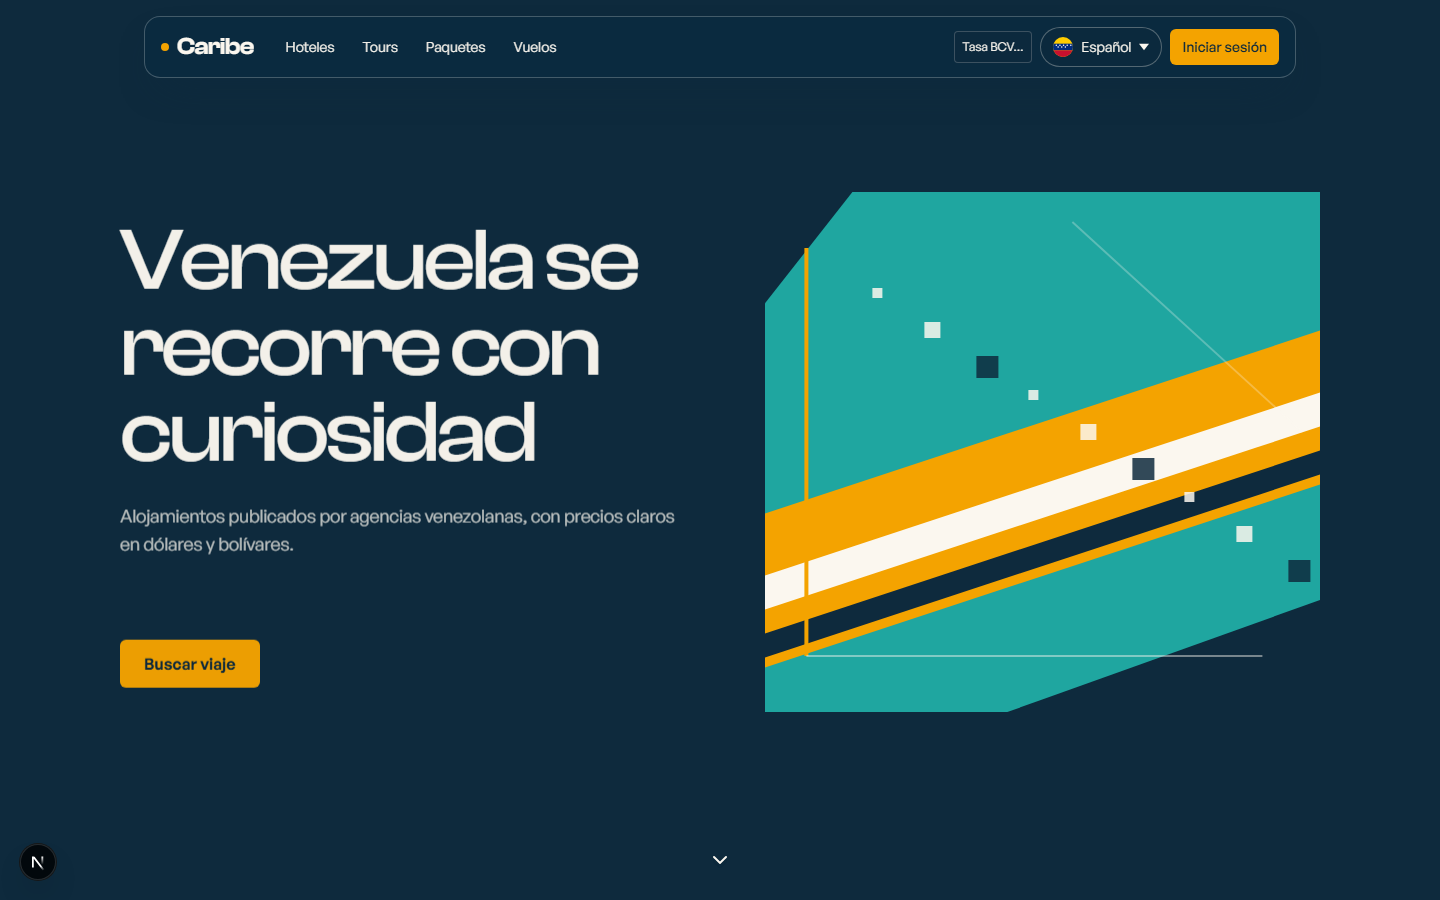
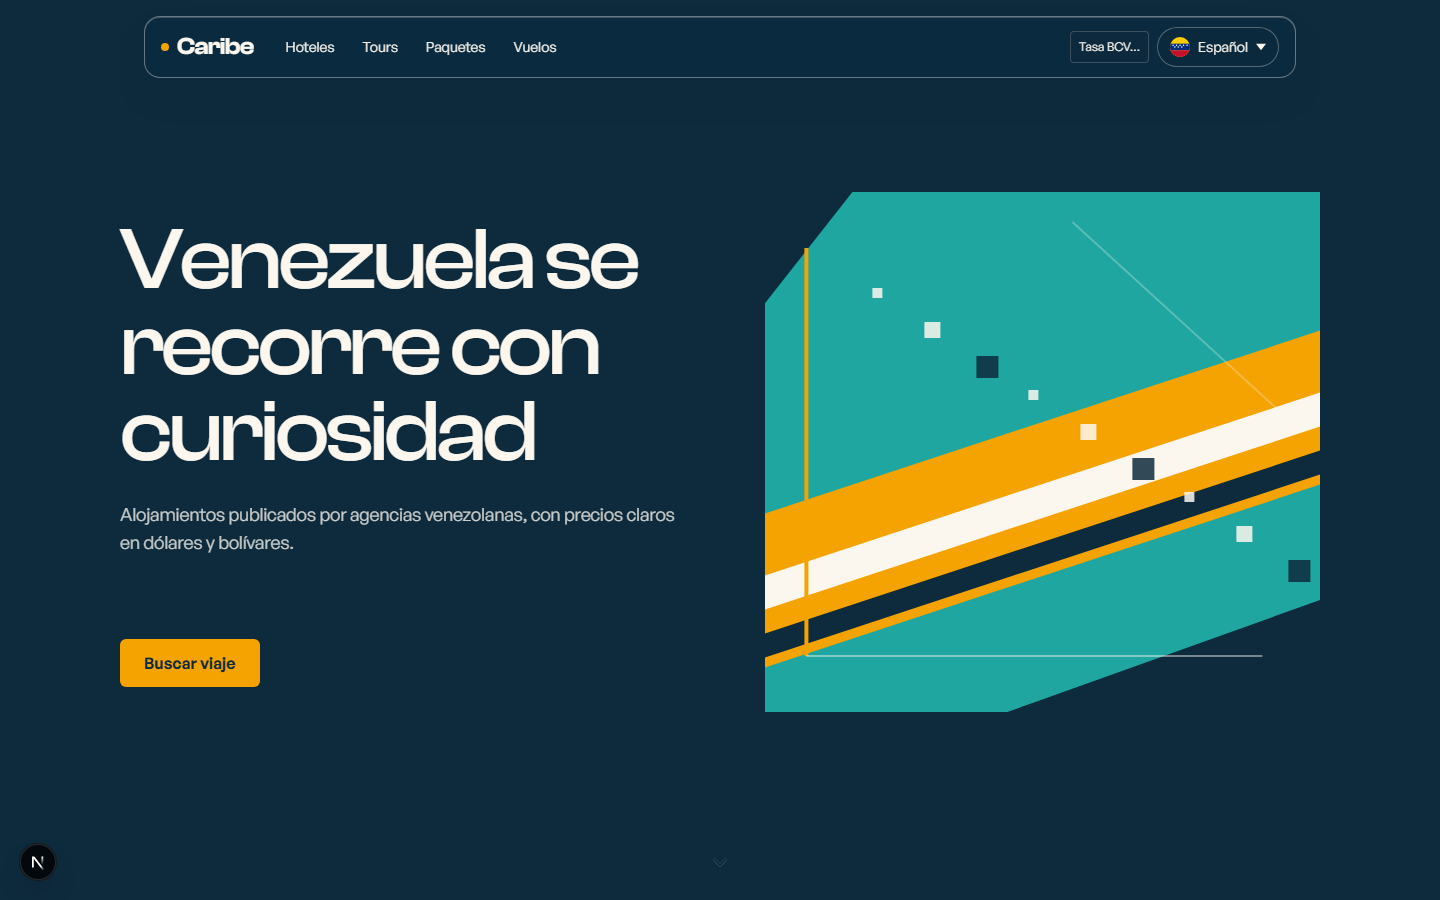
feat(web): animar la pulsacion de las flechas de seccion
Task: T-NAV-18

diff --git a/apps/web/src/components/scroll-cue.tsx b/apps/web/src/components/scroll-cue.tsx
@@ -10,12 +10,15 @@ interface ScrollCueProps {
 }
 
 /**
- * Gesto de bajada siempre dentro del viewport. Se muestra mientras su sección
- * ocupa la parte alta de la pantalla y se retira del tabulado al salir de ella.
+ * Gesto de bajada siempre dentro del viewport. Muestra un estado pulsado
+ * breve para que el salto de sección tenga respuesta visual incluso cuando el
+ * desplazamiento es inmediato (movimiento reducido).
  */
 export function ScrollCue({ targetId, label, tone = "on-dark" }: ScrollCueProps) {
   const sentinel = useRef<HTMLSpanElement>(null);
+  const timer = useRef<number | null>(null);
   const [visible, setVisible] = useState(true);
+  const [pressed, setPressed] = useState(false);
 
   useEffect(() => {
     const node = sentinel.current;
@@ -28,10 +31,21 @@ export function ScrollCue({ targetId, label, tone = "on-dark" }: ScrollCueProps)
     return () => observer.disconnect();
   }, []);
 
+  useEffect(
+    () => () => {
+      if (timer.current !== null) window.clearTimeout(timer.current);
+    },
+    [],
+  );
+
+  function markPressed() {
+    setPressed(true);
+    if (timer.current !== null) window.clearTimeout(timer.current);
+    timer.current = window.setTimeout(() => setPressed(false), 450);
+  }
+
   const colors =
-    tone === "on-dark"
-      ? "text-bone hover:bg-bone/10"
-      : "text-ink hover:bg-ink/10";
+    tone === "on-dark" ? "text-bone hover:bg-bone/10" : "text-ink hover:bg-ink/10";
 
   return (
     <>
@@ -40,12 +54,14 @@ export function ScrollCue({ targetId, label, tone = "on-dark" }: ScrollCueProps)
         href={`#${targetId}`}
         aria-label={label}
         data-visible={visible}
-        className={`scroll-cue inline-flex size-12 items-center justify-center rounded-full focus-visible:outline-2 focus-visible:outline-offset-2 focus-visible:outline-amber ${colors}`}
+        data-pressed={pressed}
+        onClick={markPressed}
+        className={`scroll-cue inline-flex size-12 min-h-11 min-w-11 items-center justify-center rounded-full focus-visible:outline-2 focus-visible:outline-offset-2 focus-visible:outline-amber ${colors}`}
       >
         <svg
           aria-hidden="true"
           viewBox="0 0 24 24"
-          className="size-6"
+          className="scroll-cue-icon size-6"
           fill="none"
           stroke="currentColor"
           strokeWidth="2"

diff --git a/apps/web/src/app/globals.css b/apps/web/src/app/globals.css
@@ -87,29 +87,95 @@ body {
 
 /* Gesto de bajada: fijo al viewport y retirado del tabulado fuera de su sección. */
 .scroll-cue {
+  --cue-y: 8px;
+  --cue-scale: 1;
   position: fixed;
-  inset-block-end: 1rem;
+  inset-block-end: calc(1rem + env(safe-area-inset-bottom, 0px));
   inset-inline-start: 50%;
   z-index: 40;
   opacity: 0;
   visibility: hidden;
-  transform: translate(-50%, 8px);
+  pointer-events: none;
+  transform: translate(-50%, var(--cue-y)) scale(var(--cue-scale));
   transition:
     opacity var(--duration-cue) var(--ease-caribe),
     transform var(--duration-cue) var(--ease-caribe),
+    background-color var(--duration-cue) var(--ease-caribe),
     visibility var(--duration-cue) var(--ease-caribe);
 }
 
 .scroll-cue[data-visible="true"] {
   opacity: 1;
   visibility: visible;
-  transform: translate(-50%, 0);
+  pointer-events: auto;
+  --cue-y: 0px;
+}
+
+.scroll-cue[data-pressed="true"] {
+  --cue-scale: 0.9;
+  background-color: color-mix(in srgb, currentColor 18%, transparent);
+}
+
+.scroll-cue::after {
+  content: "";
+  position: absolute;
+  inset: 0;
+  border: 1px solid currentColor;
+  border-radius: inherit;
+  opacity: 0;
+  pointer-events: none;
+}
+
+.scroll-cue[data-pressed="true"]::after {
+  animation: cue-press 450ms var(--ease-caribe);
+}
+
+@keyframes cue-press {
+  from {
+    opacity: 0.6;
+    transform: scale(0.8);
+  }
+  to {
+    opacity: 0;
+    transform: scale(1.4);
+  }
+}
+
+.scroll-cue-icon {
+  animation: cue-nudge 1.8s var(--ease-caribe) infinite;
+}
+
+@keyframes cue-nudge {
+  0%,
+  100% {
+    transform: translateY(0);
+  }
+  50% {
+    transform: translateY(3px);
+  }
+}
+
+@media (max-width: 639px) {
+  .scroll-cue {
+    min-width: 44px;
+    min-height: 44px;
+  }
 }
 
 @media (prefers-reduced-motion: reduce) {
   .scroll-cue {
-    transform: translate(-50%, 0);
+    --cue-y: 0px;
+    transform: translate(-50%, 0) scale(var(--cue-scale));
     transition: none;
+  }
+
+  .scroll-cue[data-pressed="true"] {
+    --cue-scale: 1;
+  }
+
+  .scroll-cue::after,
+  .scroll-cue-icon {
+    animation: none;
   }
 }
 

diff --git a/apps/web/test/visual-identity.test.ts b/apps/web/test/visual-identity.test.ts
@@ -45,8 +45,11 @@ describe("identidad visual Caribe", () => {
     expect(css).toContain("@media (prefers-reduced-motion: reduce)");
     expect(css).toContain("clip-path: none !important");
     expect(css).toContain("transform: none !important");
-    // La change f1-navigation-refresh aprobó una sola animación de portada.
+    expect(css).toMatch(/\.scroll-cue-icon\s*\{\s*animation: none;/);
+    // f1-navigation-refresh aprobó la entrada de portada y el gesto de flecha.
     expect([...css.matchAll(/@keyframes\s+([\w-]+)/g)].map((match) => match[1])).toEqual([
+      "cue-press",
+      "cue-nudge",
       "caribe-rise",
     ]);
   });

diff --git a/openspec/changes/f1-navigation-refresh/tasks.md b/openspec/changes/f1-navigation-refresh/tasks.md
@@ -31,7 +31,7 @@ Una tarea a la vez. Capturas de escritorio y móvil antes de cada commit en
   Prueba: escenario «Transiciones suaves» de `specs/web-ui/spec.md`; capturas de portada en escritorio y móvil; lint, typecheck y tests en verde.
 - [x] T-NAV-17 Hacer la cabecera responsiva: margen lateral en móvil, menú hamburguesa con opciones verticales y glass con borde y realce interior.
   Prueba: escenarios «Cabecera estrecha», «Menú vertical» y «Borde de glass» de `specs/web-ui/spec.md`; capturas de cabecera en escritorio y móvil; `verify:navigation` y `verify:contrast`; lint, typecheck y tests en verde.
-- [ ] T-NAV-18 Animar la pulsación de las flechas de sección y revisar su tamaño y zona segura en móvil, con degradación segura bajo movimiento reducido.
+- [x] T-NAV-18 Animar la pulsación de las flechas de sección y revisar su tamaño y zona segura en móvil, con degradación segura bajo movimiento reducido.
   Prueba: escenarios «Pulsación de la flecha» y «Flecha en móvil» de `specs/web-ui/spec.md`; `verify:navigation`; capturas de portada en móvil; lint, typecheck y tests en verde.
 - [x] T-NAV-8 Corregir el contraste de los pares gris sobre blanco con tokens aprobados, añadir `verify:contrast` con Playwright y crear el workflow de CI que lo ejecute.
   Prueba: escenarios «Contraste AA verificable» de `specs/web-ui/spec.md`; capturas claras y oscuras en escritorio y móvil; lint, typecheck y tests en verde.
